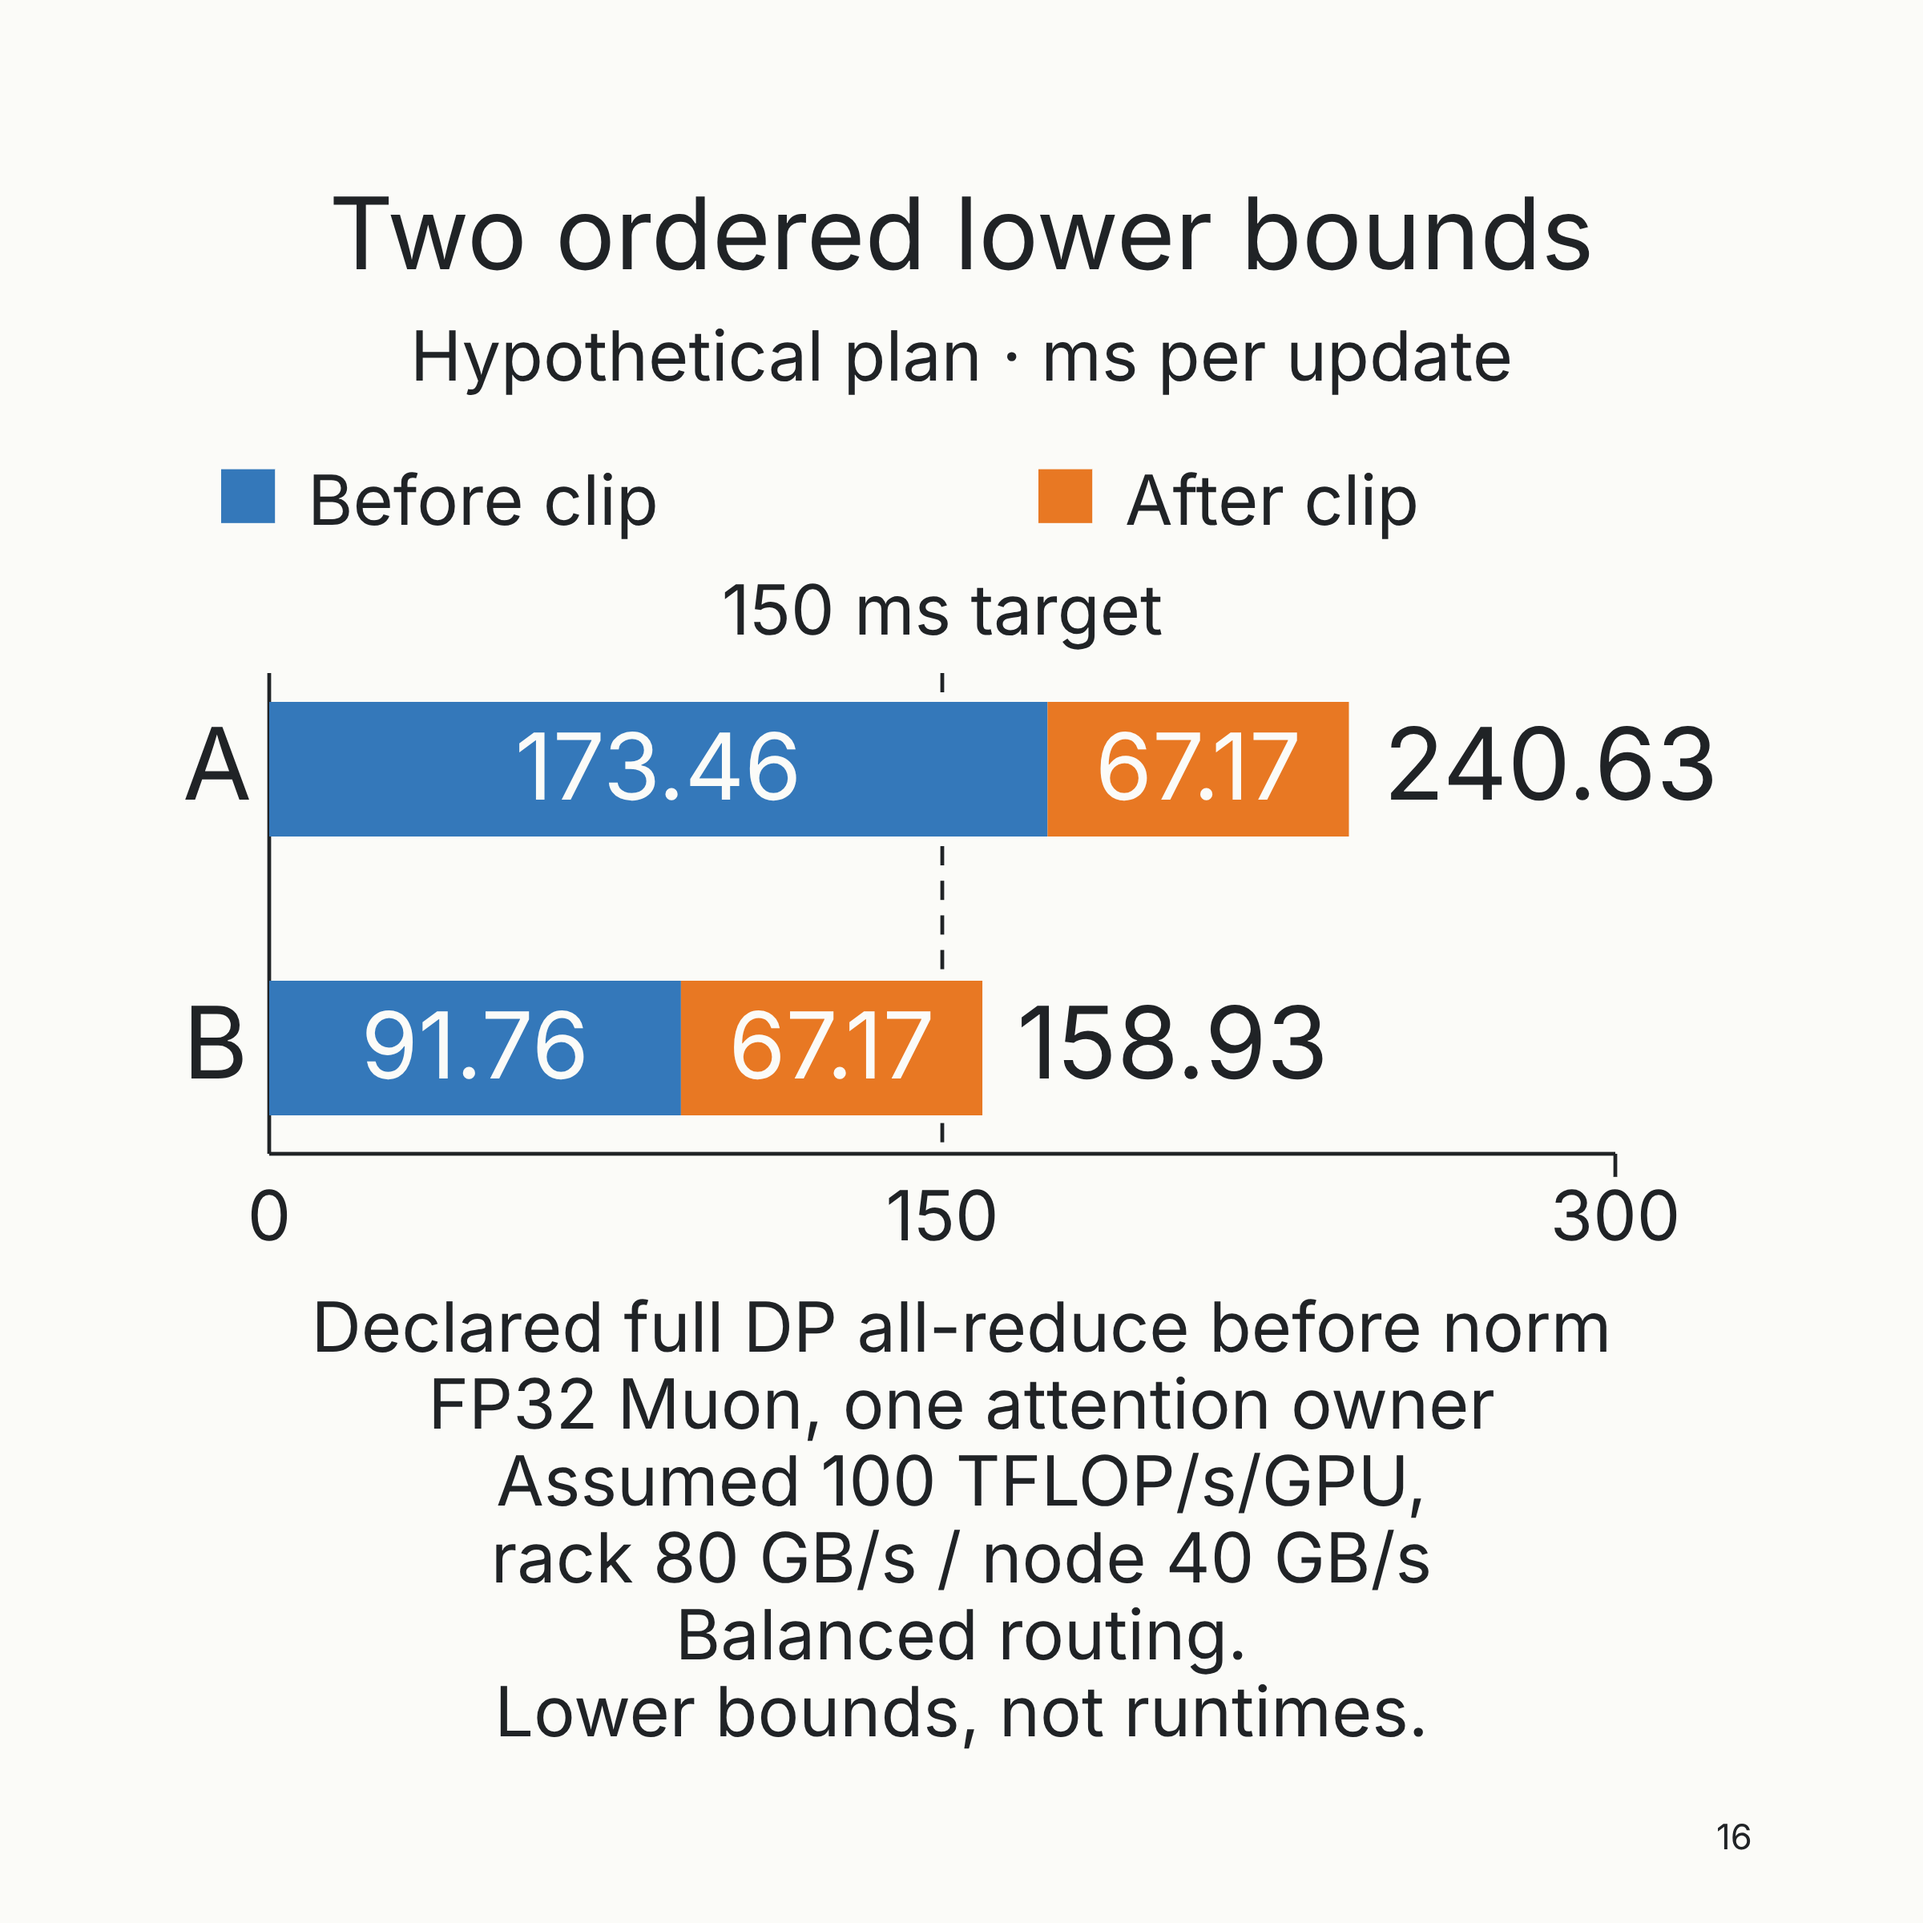
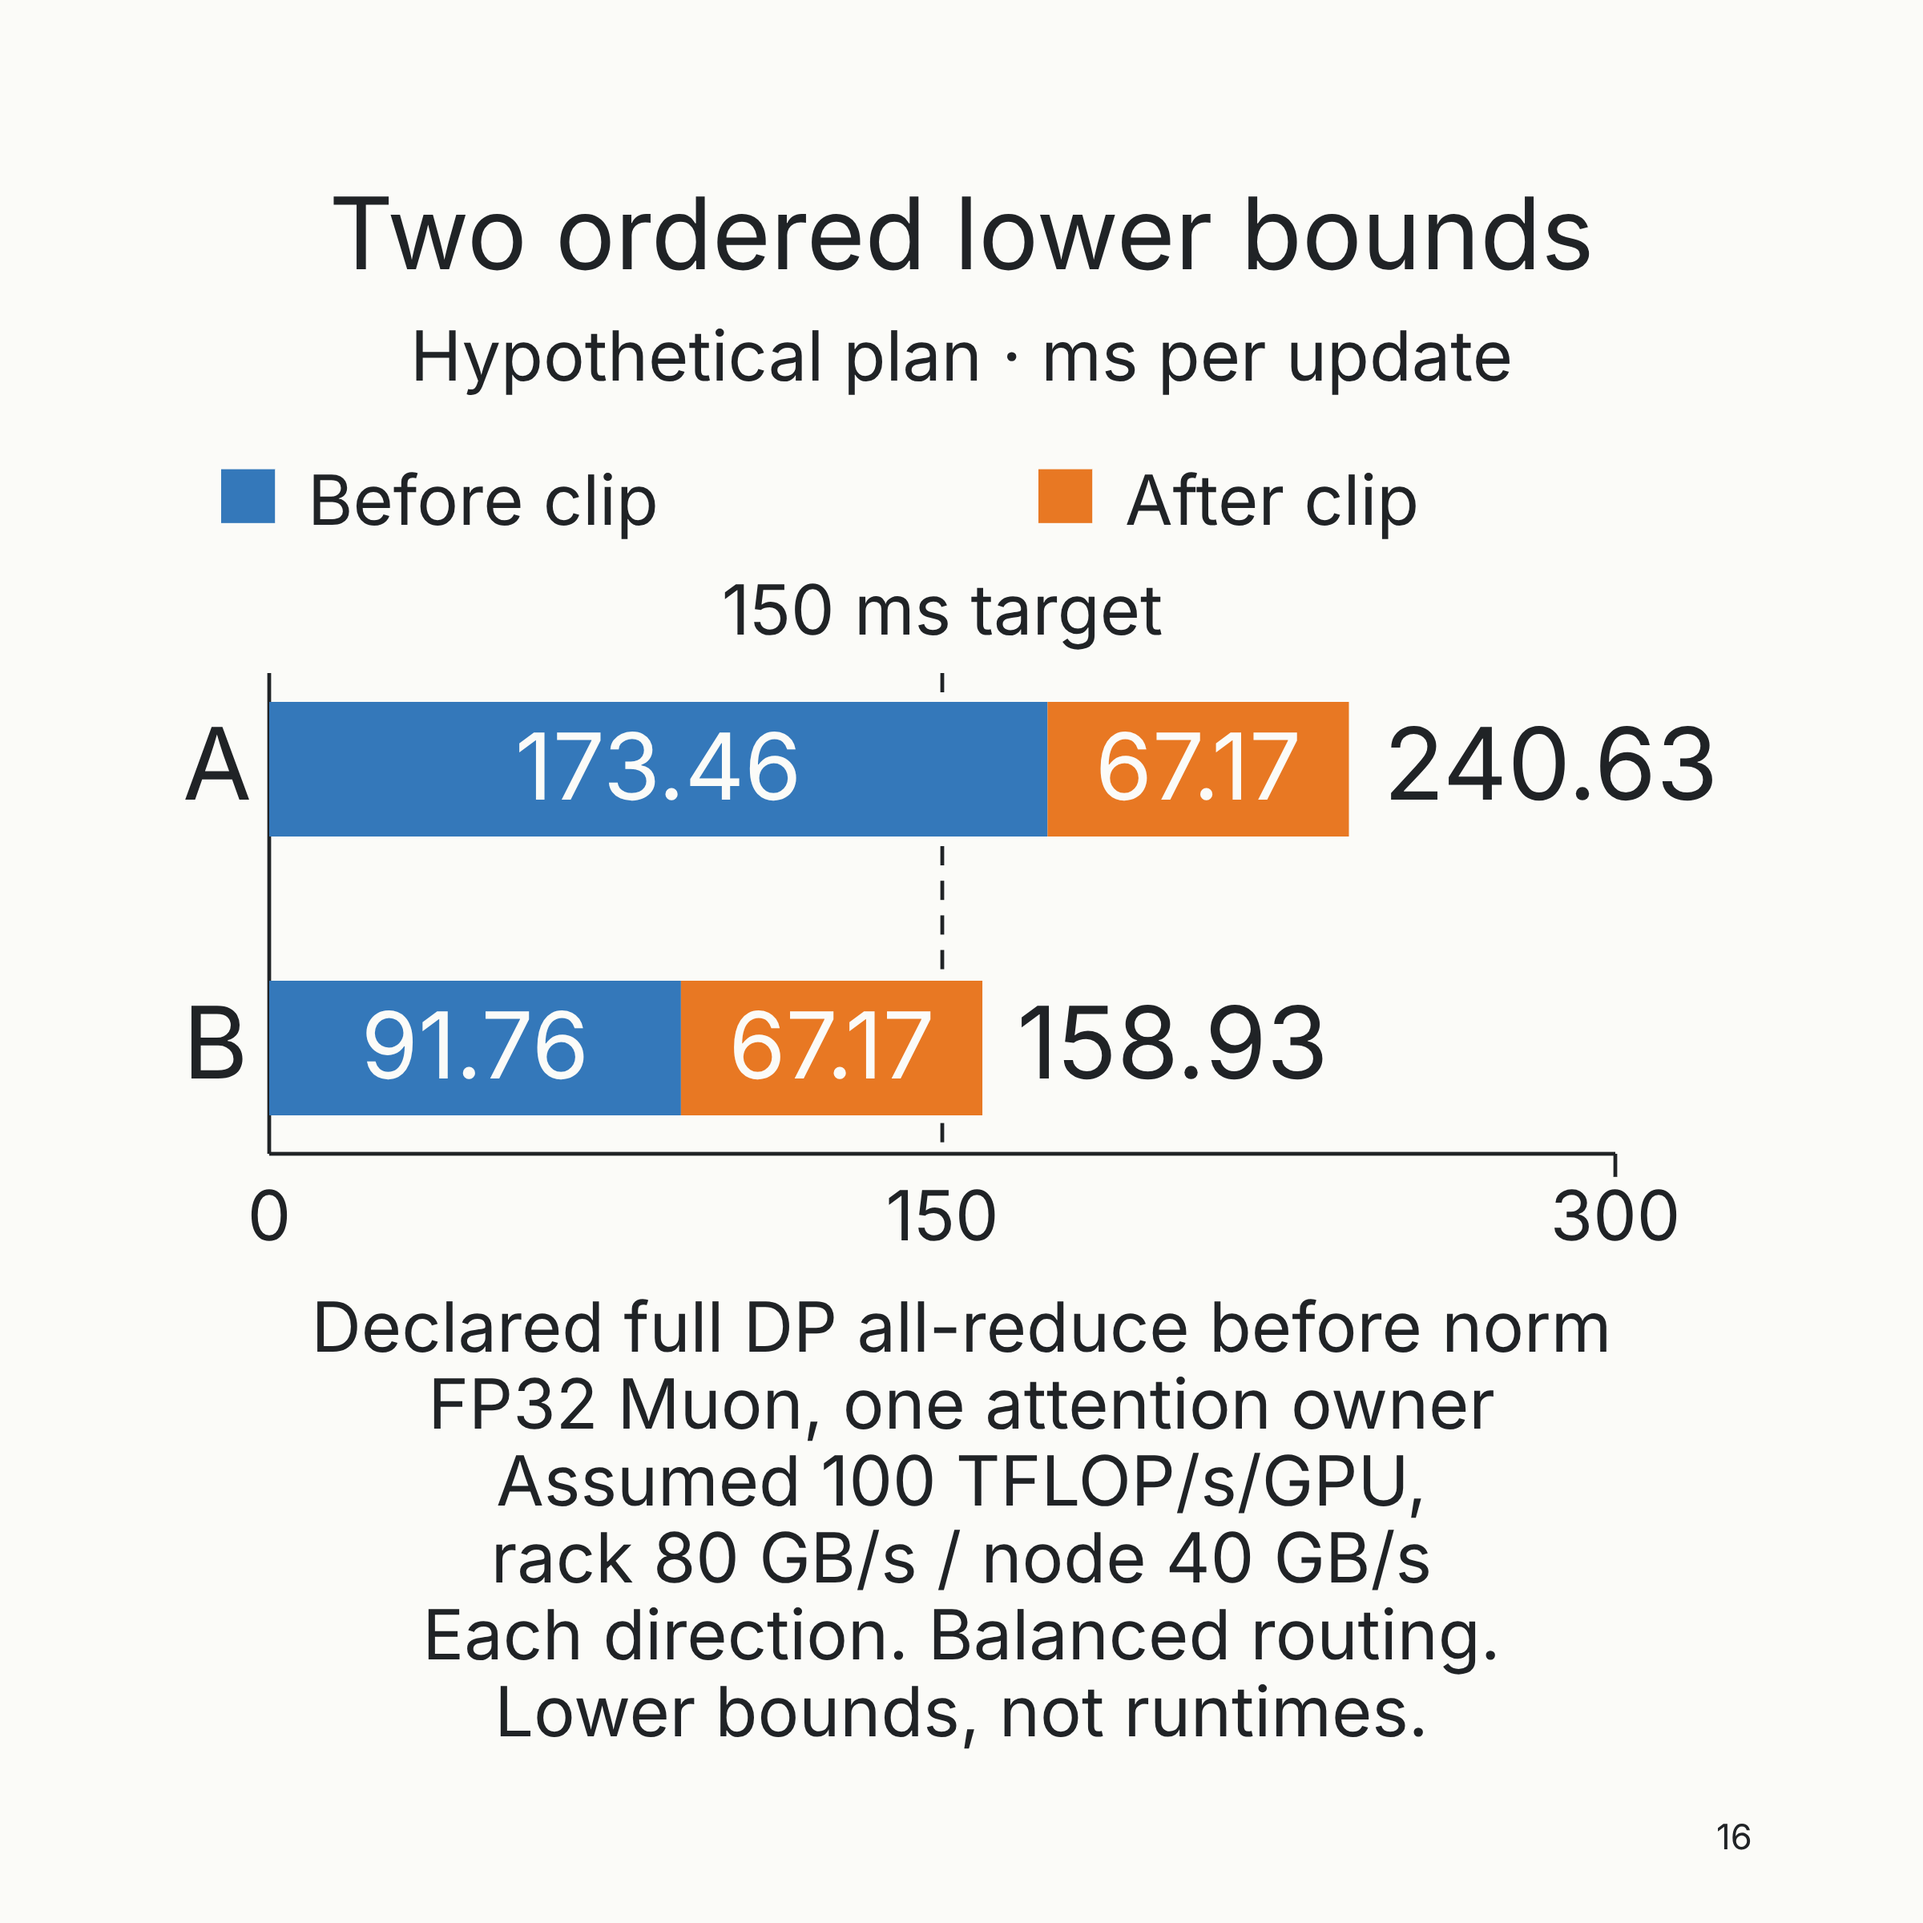
Label network rates per direction in training budget chart

Changed region(s): [[0.2188, 0.8438, 0.7812, 0.875]]

diff --git a/research/2026-10-29-distributed-training-budget/code/card_figures.py b/research/2026-10-29-distributed-training-budget/code/card_figures.py
@@ -178,7 +178,7 @@ def ordered_floors(source):
     c.text(500, 743, "FP32 Muon, one attention owner", 36, "middle")
     c.text(500, 783, f"Assumed {caps['Muon_FP32_TF_s_GPU']} TFLOP/s/GPU,", 36, "middle")
     c.text(500, 823, f"rack {caps['rack_uplink_GB_s_each_direction']} GB/s / node {caps['node_NIC_GB_s_each_direction']} GB/s", 36, "middle")
-    c.text(500, 863, "Balanced routing.", 36, "middle")
+    c.text(500, 863, "Each direction. Balanced routing.", 36, "middle")
     c.text(500, 903, "Lower bounds, not runtimes.", 36, "middle")
     return c
 
